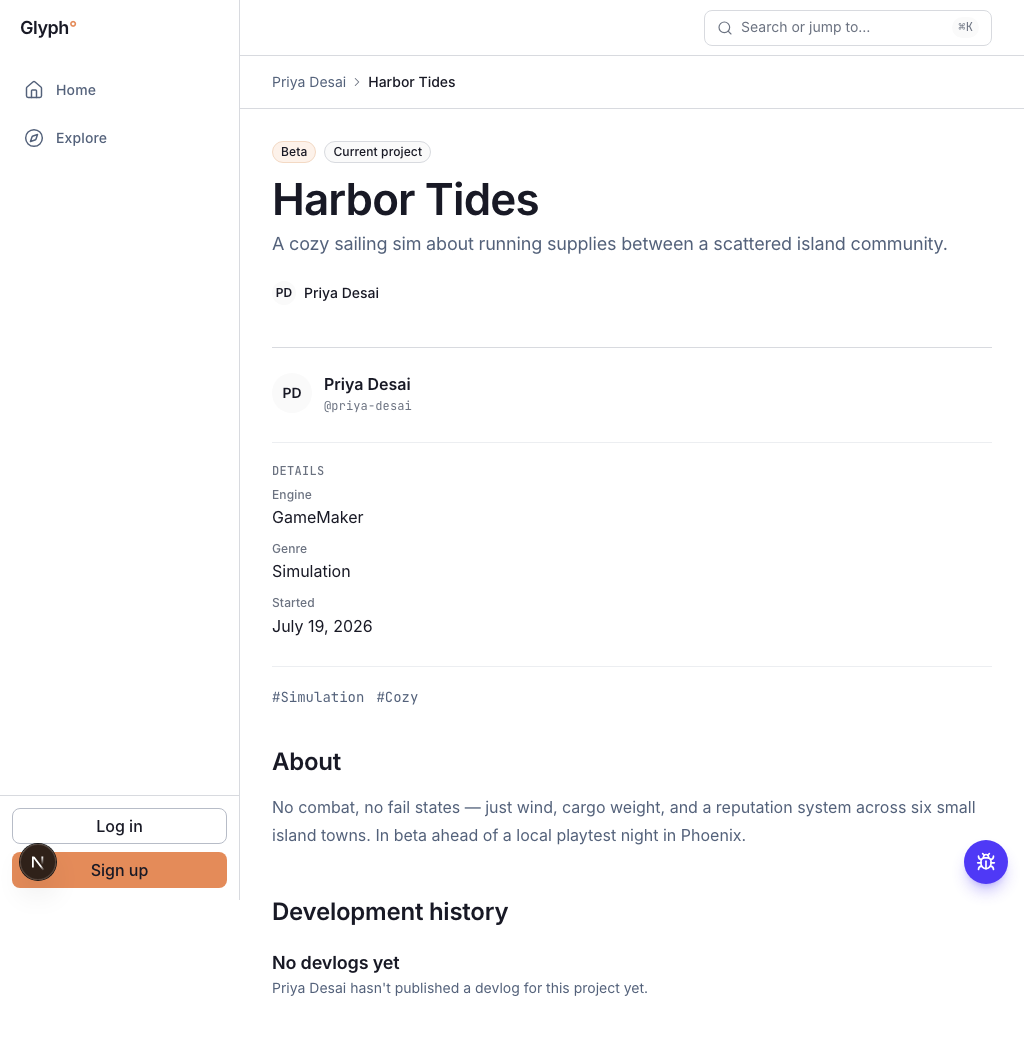
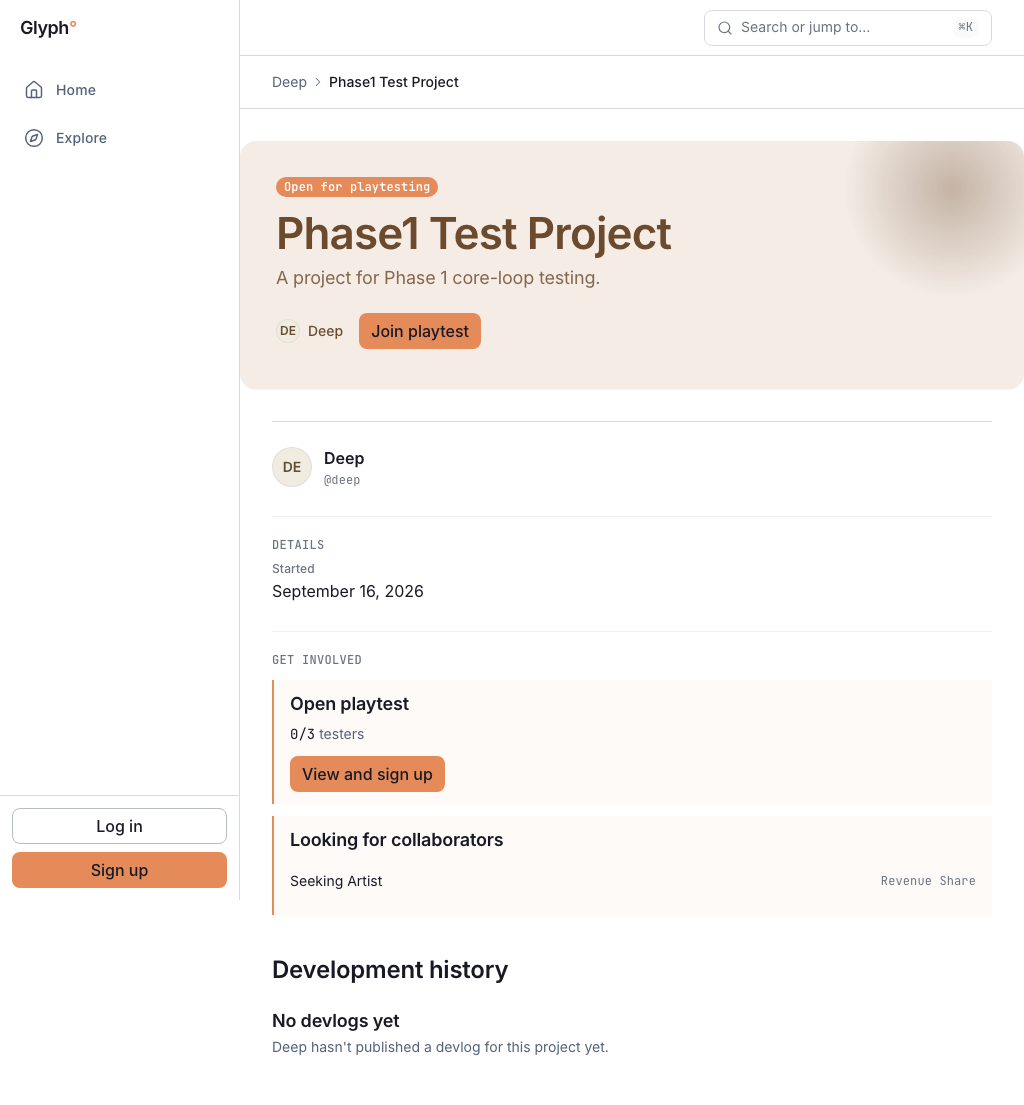
Canonical-four iteration 1: identity plates, coverless hero, grid rhythm, dashboard panels
Acts on the five-reviewer quality-gate round 1 (all four surfaces failed).

- Shared identity tint palette (lib/tint) now drives the project title-plate, a
  new coverless project hero band, and developer avatars. Avatar is a tinted
  initials plate with an inset ring instead of a flat gray disc — the biggest
  "arranged-default" tell, killed everywhere it appears.
- Coverless project page: the editorial header becomes a deterministic tinted
  band with a soft glow, so a media-poor game (the common case) reads as
  designed rather than as empty white space.
- Explore grid: the lead tile spans two columns so eight projects fill three
  rows with rhythm instead of dead-ending in a void; duplicate engine·genre
  caption dropped on coverless tiles (the plate already prints it).
- Dashboard: Currently building is a real filled panel (surface + inset ring),
  and Needs-attention items carry a leading inbox glyph so urgency never rests
  on the accent colour alone.
- Profile: follower/following counts render only once they carry signal, so a
  brand-new developer no longer advertises an empty room.
- Dashboard fixture renders the clean populated state by default (?full=1 for
  the QA gallery); dev-only debug FAB hidden in review captures; devIndicators
  off. Recaptured all 25 canonical screenshots.

diff --git a/app/p/[username]/[project-slug]/page.tsx b/app/p/[username]/[project-slug]/page.tsx
@@ -14,6 +14,7 @@ import { OpportunitySummary } from '@/components/project/OpportunitySummary'
 import { AddToShortlistButton } from '@/components/publisher/AddToShortlistButton'
 import { labelFor, ENGINES, PROJECT_STAGES, CONTRACT_TYPES } from '@/lib/supabase/types'
 import { isHttpsUrl, relativeTime } from '@/lib/utils'
+import { tintFor } from '@/lib/tint'
 import type { Profile, Project } from '@/lib/supabase/types'
 import { Shell } from '@/components/shell/Shell'
 
@@ -151,6 +152,7 @@ export default async function PublicProjectPage({
   const stage = labelFor(PROJECT_STAGES, project.stage)
   const ownerName = profile.display_name || profile.username
   const projectHref = `/p/${username}/${projectSlug}`
+  const heroTint = tintFor(project.id || project.title)
 
   const facts = [
     // Stage is already the title badge above — stating it a second time here was pure repetition.
@@ -302,17 +304,24 @@ export default async function PublicProjectPage({
             </div>
           </section>
         ) : (
-          <header>
-            <div className="mb-3 flex flex-wrap items-center gap-2">
-              {stage && <Badge tone="accent">{stage}</Badge>}
-              {project.is_primary && <Badge>Current project</Badge>}
-              {openPlaytest && <Badge tone="success">Open for playtesting</Badge>}
+          // Media poverty must never read as an unfinished page. With no cover the title itself
+          // becomes the cover: a deterministic tinted band (same palette as the grid title-plates)
+          // carries the identity with real visual weight instead of black type on empty white.
+          <header
+            className="relative -mx-4 overflow-hidden px-5 py-7 sm:-mx-6 sm:rounded-panel sm:px-8 sm:py-9 lg:-mx-8 lg:px-9"
+            style={{ backgroundColor: heroTint.bg, color: heroTint.ink, boxShadow: '0 1px 2px rgb(24 25 37 / 0.05)' }}
+          >
+            <span aria-hidden className="pointer-events-none absolute -right-10 -top-16 hidden size-56 rounded-full opacity-[0.35] sm:block" style={{ background: `radial-gradient(circle, ${heroTint.ink} 0%, transparent 68%)`, filter: 'blur(2px)' }} />
+            <div className="relative mb-3 flex flex-wrap items-center gap-2">
+              {stage && <span className="rounded-badge bg-canvas/70 px-2 py-0.5 font-mono text-micro font-semibold" style={{ color: heroTint.ink }}>{stage}</span>}
+              {project.is_primary && <span className="rounded-badge bg-canvas/70 px-2 py-0.5 font-mono text-micro font-medium" style={{ color: heroTint.ink }}>Current project</span>}
+              {openPlaytest && <span className="rounded-badge bg-accent px-2 py-0.5 font-mono text-micro font-semibold text-white">Open for playtesting</span>}
               {isOwner && project.visibility !== 'public' && <Badge tone="warning">{project.visibility === 'private' ? 'Private — only you can see this' : 'Unlisted — reachable by link only'}</Badge>}
             </div>
-            <h1 className="text-display font-semibold tracking-[-0.02em] text-fg [overflow-wrap:anywhere]">{project.title}</h1>
-            {project.short_description && <p className="mt-2 max-w-prose text-h3 font-normal text-fg-secondary [overflow-wrap:anywhere]">{project.short_description}</p>}
-            <div className="mt-4 flex flex-wrap items-center gap-x-4 gap-y-3">
-              <Link href={`/dev/${username}`} className="inline-flex min-h-11 items-center gap-2 text-small font-medium text-fg hover:text-link"><Avatar name={ownerName} src={profile.avatar_url} size="sm" /> {ownerName}</Link>
+            <h1 className="relative text-display font-semibold tracking-[-0.02em] [overflow-wrap:anywhere]" style={{ color: heroTint.ink }}>{project.title}</h1>
+            {project.short_description && <p className="relative mt-2 max-w-prose text-h3 font-normal [overflow-wrap:anywhere]" style={{ color: heroTint.ink, opacity: 0.82 }}>{project.short_description}</p>}
+            <div className="relative mt-5 flex flex-wrap items-center gap-x-4 gap-y-3">
+              <Link href={`/dev/${username}`} className="inline-flex min-h-11 items-center gap-2 text-small font-medium hover:underline" style={{ color: heroTint.ink }}><Avatar name={ownerName} src={profile.avatar_url} size="sm" /> {ownerName}</Link>
               {!isOwner && openPlaytest && <Button asChild variant="primary" size="sm"><Link href={`/playtests/${openPlaytest.id}`}>Join playtest</Link></Button>}
               {isOwner && ownerActions}
             </div>

diff --git a/app/design/dashboard/page.tsx b/app/design/dashboard/page.tsx
@@ -31,29 +31,36 @@ const NEW_USER: DashboardData = {
 const FAILED: DashboardData = { ...BASE, projectsFailed: true, attentionFailed: true, feedbackFailed: true }
 const FEED: DevlogSummary = { title: 'A devlog title in the feed', slug: 's', projectTitle: 'Fixture Project', projectSlug: 'fixture-project', username: 'fixture-dev', authorName: 'Fixture Dev', avatarUrl: null, publishedAt: ago(0.3), preview: '## Heading\n\nThe excerpt is plain text produced from the markdown body, clamped to two lines so the feed stays scannable.' }
 
-/** Development-only fixtures for Dashboard (populated, brand-new user, failed loads) and a Feed row. 404 in production. */
-export default function DashboardFixtures() {
+/**
+ * Development-only fixtures for Dashboard. 404 in production.
+ * Default: the populated dashboard exactly as the real /dashboard renders it (main + context rail
+ * inside the shell) — a clean, production-faithful capture for design review. Append `?full=1` for
+ * the QA gallery (brand-new user, failed loads, feed rows) stacked below.
+ */
+export default async function DashboardFixtures({ searchParams }: { searchParams: Promise<{ full?: string }> }) {
   if (process.env.NODE_ENV === 'production') notFound()
+  const { full } = await searchParams
+  const showAll = full === '1' || full === 'true'
   const user = { displayName: 'Fixture User', username: 'fixture-user', email: 'fixture@example.invalid', nav: { isAdmin: false, hasPublisherAccount: false, hasStudio: false, hasPublisherContacts: false, unreadNotifications: 3 } }
   return (
-    <ShellFrame user={user} headerLabel="Fixtures">
-      <div className="space-y-16">
-        <section aria-label="Populated dashboard">
-          <p className="mb-4 font-mono text-micro text-fg-muted">POPULATED (main + context rail, as the real /dashboard renders it ≥1280px)</p>
-          <div className="flex gap-8">
-            <div className="min-w-0 flex-1"><DashboardMain {...BASE} /></div>
-            <aside className="hidden w-[320px] shrink-0 border-l border-line pl-6 xl:block"><DashboardRail {...BASE} /></aside>
-          </div>
-        </section>
-        <section aria-label="Brand-new user"><p className="mb-4 font-mono text-micro text-fg-muted">BRAND-NEW USER</p><DashboardMain {...NEW_USER} /></section>
-        <section aria-label="Failed loads"><p className="mb-4 font-mono text-micro text-fg-muted">FAILED LOADS</p><DashboardMain {...FAILED} /></section>
-        <section aria-label="Feed rows" className="max-w-2xl"><p className="mb-4 font-mono text-micro text-fg-muted">FEED ROW</p>
-          <ol className="divide-y divide-line-subtle border-y border-line-subtle">
-            <DevlogRow variant="feed" devlog={FEED} engagement={{ comments: 2, reactions: [{ type: 'like', count: 3 }, { type: 'helpful', count: 1 }] }} />
-            <DevlogRow variant="feed" devlog={{ ...FEED, title: 'No engagement yet' }} />
-          </ol>
-        </section>
+    <ShellFrame user={user} headerLabel="Dashboard">
+      <div className="flex gap-8">
+        <div className="min-w-0 flex-1"><DashboardMain {...BASE} /></div>
+        <aside className="hidden w-[320px] shrink-0 border-l border-line pl-6 xl:block"><DashboardRail {...BASE} /></aside>
       </div>
+      {showAll && (
+        <div className="mt-20 space-y-16 border-t-2 border-dashed border-line pt-10">
+          <p className="font-mono text-micro text-fg-muted">— QA STATES (append ?full=1) —</p>
+          <section aria-label="Brand-new user"><p className="mb-4 font-mono text-micro text-fg-muted">BRAND-NEW USER</p><DashboardMain {...NEW_USER} /></section>
+          <section aria-label="Failed loads"><p className="mb-4 font-mono text-micro text-fg-muted">FAILED LOADS</p><DashboardMain {...FAILED} /></section>
+          <section aria-label="Feed rows" className="max-w-2xl"><p className="mb-4 font-mono text-micro text-fg-muted">FEED ROW</p>
+            <ol className="divide-y divide-line-subtle border-y border-line-subtle">
+              <DevlogRow variant="feed" devlog={FEED} engagement={{ comments: 2, reactions: [{ type: 'like', count: 3 }, { type: 'helpful', count: 1 }] }} />
+              <DevlogRow variant="feed" devlog={{ ...FEED, title: 'No engagement yet' }} />
+            </ol>
+          </section>
+        </div>
+      )}
     </ShellFrame>
   )
 }

diff --git a/components/project/ProjectTile.tsx b/components/project/ProjectTile.tsx
@@ -1,6 +1,6 @@
 import Link from 'next/link'
 import { labelFor, ENGINES, PROJECT_STAGES } from '@/lib/supabase/types'
-import { relativeTime, isHttpsUrl } from '@/lib/utils'
+import { relativeTime, isHttpsUrl, cn } from '@/lib/utils'
 import { ProjectMark } from './ProjectMark'
 import type { ProjectRowData } from '@/lib/discovery/queries'
 
@@ -11,26 +11,37 @@ import type { ProjectRowData } from '@/lib/discovery/queries'
  * caption row (developer · genre, then opportunity/activity) sits below both so the grid keeps one
  * rhythm regardless of media. Whole tile links to the project; the developer link stays independent.
  */
-export function ProjectTile({ project }: { project: ProjectRowData }) {
+export function ProjectTile({ project, featured = false }: { project: ProjectRowData; featured?: boolean }) {
   const href = `/p/${project.username}/${project.slug}`
   const devName = project.display_name || project.username
   const engine = project.engine ? labelFor(ENGINES, project.engine) ?? project.engine : null
   const stage = project.stage ? labelFor(PROJECT_STAGES, project.stage) : null
   const hasCover = isHttpsUrl(project.cover_url)
   const meta = [engine, project.genre].filter(Boolean).join(' · ')
+  // The title-plate already prints engine·genre on the media itself, so repeating it in the
+  // caption below is redundant; only cover'd tiles need the caption to carry it.
+  const showMeta = hasCover && !!meta
 
   return (
     <article className="group relative flex flex-col">
       <div className="relative overflow-hidden rounded-panel">
-        <ProjectMark title={project.title} id={project.id} coverUrl={project.cover_url} engine={project.engine} genre={project.genre} stage={hasCover ? null : project.stage} />
+        <ProjectMark
+          title={project.title}
+          id={project.id}
+          coverUrl={project.cover_url}
+          engine={project.engine}
+          genre={project.genre}
+          stage={hasCover ? null : project.stage}
+          className={featured ? '!aspect-[2/1] sm:!aspect-[21/9]' : undefined}
+        />
         {hasCover && (
           <>
             <div aria-hidden className="pointer-events-none absolute inset-0" style={{ background: 'linear-gradient(0deg, rgba(12,12,14,.82) 0%, rgba(12,12,14,.28) 48%, transparent 78%)' }} />
             {project.has_open_playtest && (
               <span className="absolute left-2.5 top-2.5 rounded-full bg-accent px-2 py-0.5 font-mono text-micro font-semibold text-white">Playtest open</span>
             )}
-            <div className="absolute inset-x-0 bottom-0 flex items-end justify-between gap-2 p-3">
-              <h3 className="min-w-0 text-h3 font-semibold tracking-tight text-white [overflow-wrap:anywhere]">
+            <div className="absolute inset-x-0 bottom-0 flex items-end justify-between gap-2 p-3 sm:p-4">
+              <h3 className={cn('min-w-0 font-semibold tracking-tight text-white [overflow-wrap:anywhere]', featured ? 'text-h2' : 'text-h3')}>
                 <Link href={href} className="after:absolute after:inset-0 after:content-['']">{project.title}</Link>
               </h3>
               {stage && <span className="shrink-0 rounded-badge bg-white/18 px-1.5 py-0.5 font-mono text-micro font-medium text-white backdrop-blur-sm">{stage}</span>}
@@ -44,7 +55,7 @@ export function ProjectTile({ project }: { project: ProjectRowData }) {
       <div className="mt-2.5 flex min-w-0 items-start justify-between gap-2">
         <div className="min-w-0">
           <Link href={`/dev/${project.username}`} className="relative z-10 block w-fit text-small font-medium text-fg hover:text-link">{devName}</Link>
-          {meta && <p className="mt-0.5 font-mono text-micro text-fg-secondary">{meta}</p>}
+          {showMeta && <p className="mt-0.5 font-mono text-micro text-fg-secondary">{meta}</p>}
         </div>
         <span className="shrink-0 whitespace-nowrap pt-0.5 text-micro text-fg-muted">
           {!hasCover && project.has_open_playtest && <span className="mr-1.5 font-medium text-link">Playtest</span>}

diff --git a/components/dashboard/AttentionItem.tsx b/components/dashboard/AttentionItem.tsx
@@ -1,19 +1,23 @@
 import Link from 'next/link'
-import { ArrowRight } from 'lucide-react'
+import { ArrowRight, Inbox } from 'lucide-react'
 import { relativeTime } from '@/lib/utils'
 
 /**
  * One thing waiting for a decision: WHAT (who + what happened), WHEN, and a direct ACTION.
- * A restrained accent edge marks "this wants you," not a red alert — these are normal pending
- * items, not danger states.
+ * A leading inbox glyph plus the accent edge mark "this wants you" — meaning never rests on the
+ * accent colour alone (the explicit action label carries it in text too). Normal pending items,
+ * not danger states.
  */
 export function AttentionItem({ href, time, actionLabel, children }: { href: string; time: string; actionLabel: string; children: React.ReactNode }) {
   return (
-    <li className="border-l-2 border-accent-line py-2.5 pl-3">
-      <Link href={href} className="group flex items-center justify-between gap-3">
-        <span className="min-w-0 text-body text-fg [overflow-wrap:anywhere]">{children}</span>
-        <span className="flex shrink-0 items-center gap-2 text-small text-fg-muted">
-          <time dateTime={time}>{relativeTime(time)}</time>
+    <li className="group/att relative">
+      <Link href={href} className="group flex items-start gap-3 rounded-control border-l-2 border-accent-line py-2.5 pl-3 pr-2 transition-colors hover:bg-accent-subtle/60">
+        <span aria-hidden className="mt-0.5 flex size-6 shrink-0 items-center justify-center rounded-full bg-accent-subtle text-accent-hover">
+          <Inbox strokeWidth={1.75} className="size-3.5" />
+        </span>
+        <span className="min-w-0 flex-1 text-body text-fg [overflow-wrap:anywhere]">{children}</span>
+        <span className="flex shrink-0 flex-col items-end gap-0.5 text-small text-fg-muted sm:flex-row sm:items-center sm:gap-2">
+          <time dateTime={time} className="font-mono text-micro">{relativeTime(time)}</time>
           <span className="inline-flex items-center gap-1 font-medium text-link group-hover:underline">{actionLabel} <ArrowRight aria-hidden strokeWidth={1.75} className="size-3.5" /></span>
         </span>
       </Link>

diff --git a/components/profile/ProfileHeader.tsx b/components/profile/ProfileHeader.tsx
@@ -68,14 +68,19 @@ export function ProfileHeader({
           <span aria-hidden className={cn('size-2 rounded-full', isOpenToCollab ? 'bg-success' : 'bg-line-strong')} />
           {isOpenToCollab ? 'Open to collaborate' : 'Not currently available'}
         </p>
-        <p className="mt-3 flex flex-wrap gap-x-4 text-small text-fg-secondary">
-          <Link href={`/dev/${username}/followers`} className="inline-flex min-h-11 items-center hover:text-fg hover:underline underline-offset-2">
-            <span className="mr-1 font-mono font-medium text-fg">{followerCount}</span> {followerCount === 1 ? 'follower' : 'followers'}
-          </Link>
-          <Link href={`/dev/${username}/following`} className="inline-flex min-h-11 items-center hover:text-fg hover:underline underline-offset-2">
-            <span className="mr-1 font-mono font-medium text-fg">{followingCount}</span> following
-          </Link>
-        </p>
+        {/* Network counts only earn space once they carry signal. A brand-new developer showing
+            "0 followers · 0 following" just advertises an empty room; the owner still sees their
+            own so the links stay reachable. */}
+        {(followerCount > 0 || followingCount > 0 || isOwner) && (
+          <p className="mt-3 flex flex-wrap gap-x-4 text-small text-fg-secondary">
+            <Link href={`/dev/${username}/followers`} className="inline-flex min-h-11 items-center hover:text-fg hover:underline underline-offset-2">
+              <span className="mr-1 font-mono font-medium text-fg">{followerCount}</span> {followerCount === 1 ? 'follower' : 'followers'}
+            </Link>
+            <Link href={`/dev/${username}/following`} className="inline-flex min-h-11 items-center hover:text-fg hover:underline underline-offset-2">
+              <span className="mr-1 font-mono font-medium text-fg">{followingCount}</span> following
+            </Link>
+          </p>
+        )}
       </div>
 
       {isOwner ? (

diff --git a/components/ui/Avatar.tsx b/components/ui/Avatar.tsx
@@ -1,8 +1,9 @@
 import { cva, type VariantProps } from 'class-variance-authority'
 import { cn, initialsOf, isHttpsUrl } from '@/lib/utils'
+import { tintFor } from '@/lib/tint'
 
 const avatarVariants = cva(
-  'inline-flex shrink-0 select-none items-center justify-center overflow-hidden rounded-full bg-surface-muted font-semibold text-fg-secondary',
+  'inline-flex shrink-0 select-none items-center justify-center overflow-hidden rounded-full font-semibold ring-1 ring-inset ring-fg/[0.06]',
   {
     variants: {
       size: {
@@ -29,11 +30,19 @@ export function Avatar({
   className,
 }: VariantProps<typeof avatarVariants> & { name: string; src?: string | null; label?: string; className?: string }) {
   const a11y = label ? { role: 'img', 'aria-label': label } : { 'aria-hidden': true as const }
+  const hasImage = isHttpsUrl(src)
+  // No photo → a deterministic tinted plate with initials, from the same palette as the project
+  // title-plate. Never a flat gray disc: a coverless identity should still read as designed.
+  const tint = tintFor(name || '?')
   return (
-    <span className={cn(avatarVariants({ size }), className)} {...a11y}>
-      {isHttpsUrl(src) ? (
+    <span
+      className={cn(avatarVariants({ size }), className)}
+      style={hasImage ? undefined : { backgroundColor: tint.bg, color: tint.ink }}
+      {...a11y}
+    >
+      {hasImage ? (
         // eslint-disable-next-line @next/next/no-img-element
-        <img src={src} alt="" className="size-full object-cover" loading="lazy" />
+        <img src={src!} alt="" className="size-full object-cover" loading="lazy" />
       ) : (
         initialsOf(name)
       )}

diff --git a/components/project/ProjectMark.tsx b/components/project/ProjectMark.tsx
@@ -1,6 +1,7 @@
 import { labelFor, ENGINES, PROJECT_STAGES } from '@/lib/supabase/types'
 import { isHttpsUrl } from '@/lib/utils'
 import { cn } from '@/lib/utils'
+import { tintFor } from '@/lib/tint'
 
 /**
  * A project's visual anchor — the answer to media poverty (only ~1 in 6 real projects has a
@@ -11,22 +12,8 @@ import { cn } from '@/lib/utils'
  *
  * Each tint carries one dark `ink` used for every text element on the plate, so contrast is high
  * on both the pale tint and on the near-white stage chip (all inks ≥ ~4.5:1 on their own bg).
+ * The palette lives in lib/tint so the coverless hero band and avatars share it.
  */
-
-const TINTS = [
-  { bg: '#edf0f5', ink: '#3b4557' }, // slate
-  { bg: '#f4ece5', ink: '#6b4a2e' }, // clay
-  { bg: '#e7f0ea', ink: '#285c3f' }, // moss
-  { bg: '#efecf7', ink: '#45397a' }, // iris
-  { bg: '#f1ece2', ink: '#5f4f30' }, // sand
-  { bg: '#e8eef3', ink: '#2f4a63' }, // steel
-]
-
-function tintFor(seed: string) {
-  let h = 0
-  for (let i = 0; i < seed.length; i++) h = (h * 31 + seed.charCodeAt(i)) >>> 0
-  return TINTS[h % TINTS.length]
-}
 
 export function ProjectMark({
   title,

diff --git a/lib/tint.ts b/lib/tint.ts
@@ -1,0 +1,24 @@
+/**
+ * Deterministic identity tints — the one answer to media poverty, shared by every surface that
+ * has to stand in for missing media: the project title-plate (ProjectMark), the coverless project
+ * hero band, and developer avatars. A stable hash of a seed (id or name) picks one pastel `bg`
+ * paired with a dark `ink` that clears ~4.5:1 on that bg, so text on the tint stays legible.
+ *
+ * One source of truth: change the palette here and every plate, band, and avatar moves together.
+ */
+export type Tint = { bg: string; ink: string }
+
+export const TINTS: Tint[] = [
+  { bg: '#edf0f5', ink: '#3b4557' }, // slate
+  { bg: '#f4ece5', ink: '#6b4a2e' }, // clay
+  { bg: '#e7f0ea', ink: '#285c3f' }, // moss
+  { bg: '#efecf7', ink: '#45397a' }, // iris
+  { bg: '#f1ece2', ink: '#5f4f30' }, // sand
+  { bg: '#e8eef3', ink: '#2f4a63' }, // steel
+]
+
+export function tintFor(seed: string): Tint {
+  let h = 0
+  for (let i = 0; i < seed.length; i++) h = (h * 31 + seed.charCodeAt(i)) >>> 0
+  return TINTS[h % TINTS.length]
+}

diff --git a/app/explore/(hub)/page.tsx b/app/explore/(hub)/page.tsx
@@ -126,8 +126,8 @@ export default async function ExplorePage() {
               {projectsRaw.error ? failed : gridProjects.length === 0 ? (
                 <EmptyState kind="first-use" className="border-y-0 py-2" title="No public projects yet" description="Projects appear here when a developer makes one public." />
               ) : (
-                <div className="grid grid-cols-2 gap-x-5 gap-y-8 sm:grid-cols-3">
-                  {gridProjects.map((p) => <ProjectTile key={p.id} project={p} />)}
+                <div className="grid grid-cols-2 gap-x-5 gap-y-8 sm:grid-cols-3 [&>*:first-child]:col-span-2 sm:[&>*:first-child]:col-span-2 sm:[&>*:first-child]:row-span-1">
+                  {gridProjects.map((p, i) => <ProjectTile key={p.id} project={p} featured={i === 0} />)}
                 </div>
               )}
             </section>

diff --git a/components/dashboard/CurrentWorkPanel.tsx b/components/dashboard/CurrentWorkPanel.tsx
@@ -27,7 +27,7 @@ export function CurrentWorkPanel({
   const stage = project.stage ? labelFor(PROJECT_STAGES, project.stage) : null
 
   return (
-    <div className="group flex flex-col gap-4 border border-line-subtle p-4 sm:flex-row sm:items-start">
+    <div className="group flex flex-col gap-4 rounded-panel bg-surface-muted p-4 ring-1 ring-inset ring-line-subtle sm:flex-row sm:items-start sm:gap-5 sm:p-5">
       <div className="w-full shrink-0 sm:w-40">
         {href ? (
           <Link href={href} aria-label={project.title} className="block">

diff --git a/next.config.ts b/next.config.ts
@@ -31,6 +31,8 @@ const securityHeaders = [
 ];
 
 const nextConfig: NextConfig = {
+  // The dev-only overlay indicator adds nothing for users and pollutes design-review captures.
+  devIndicators: false,
   async headers() {
     return [
       {
